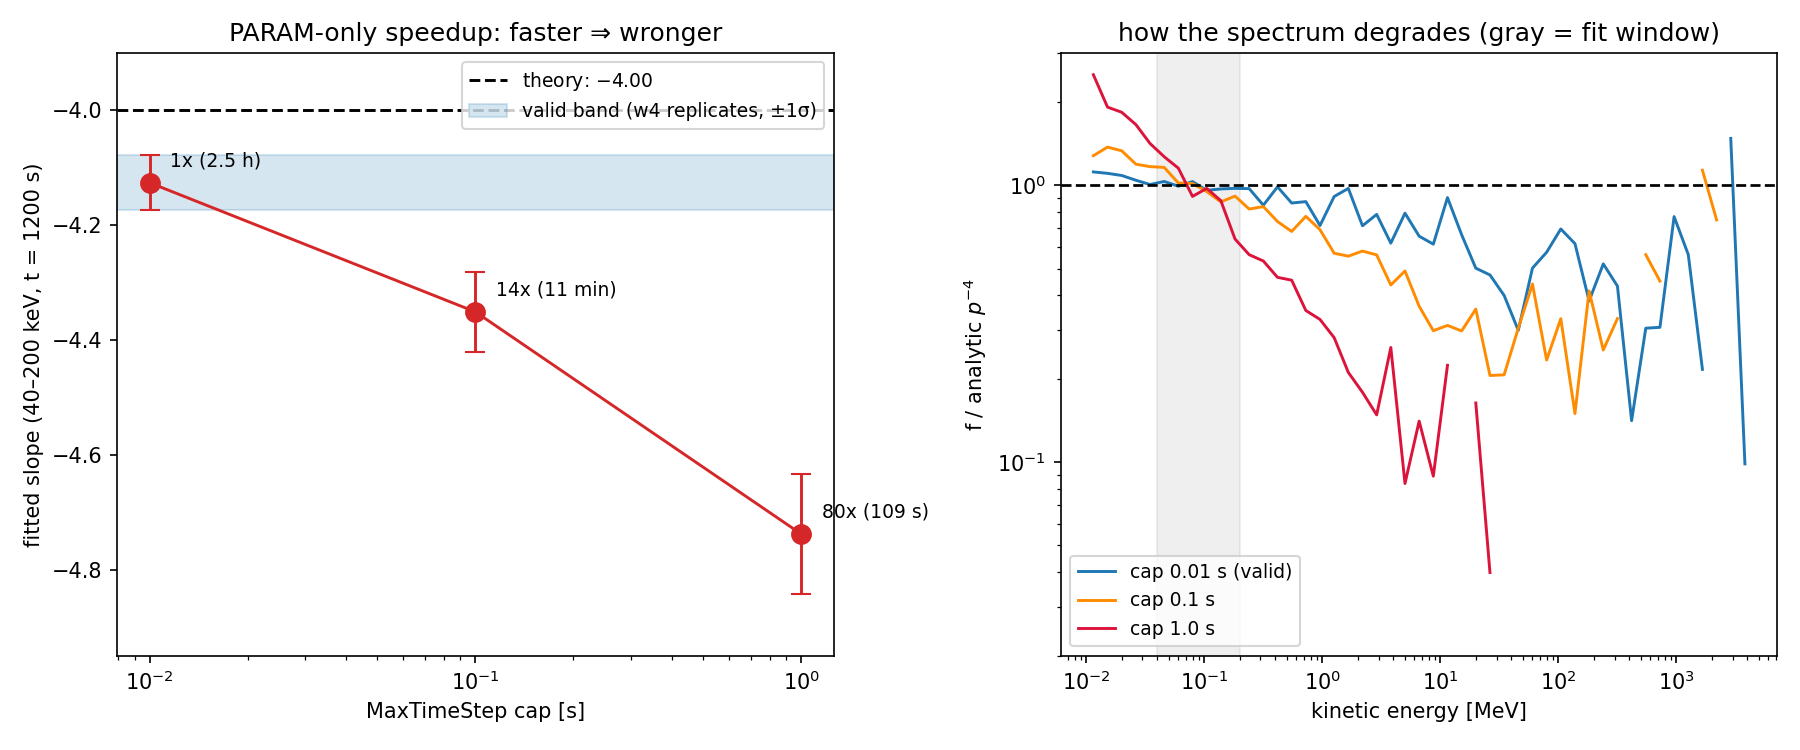
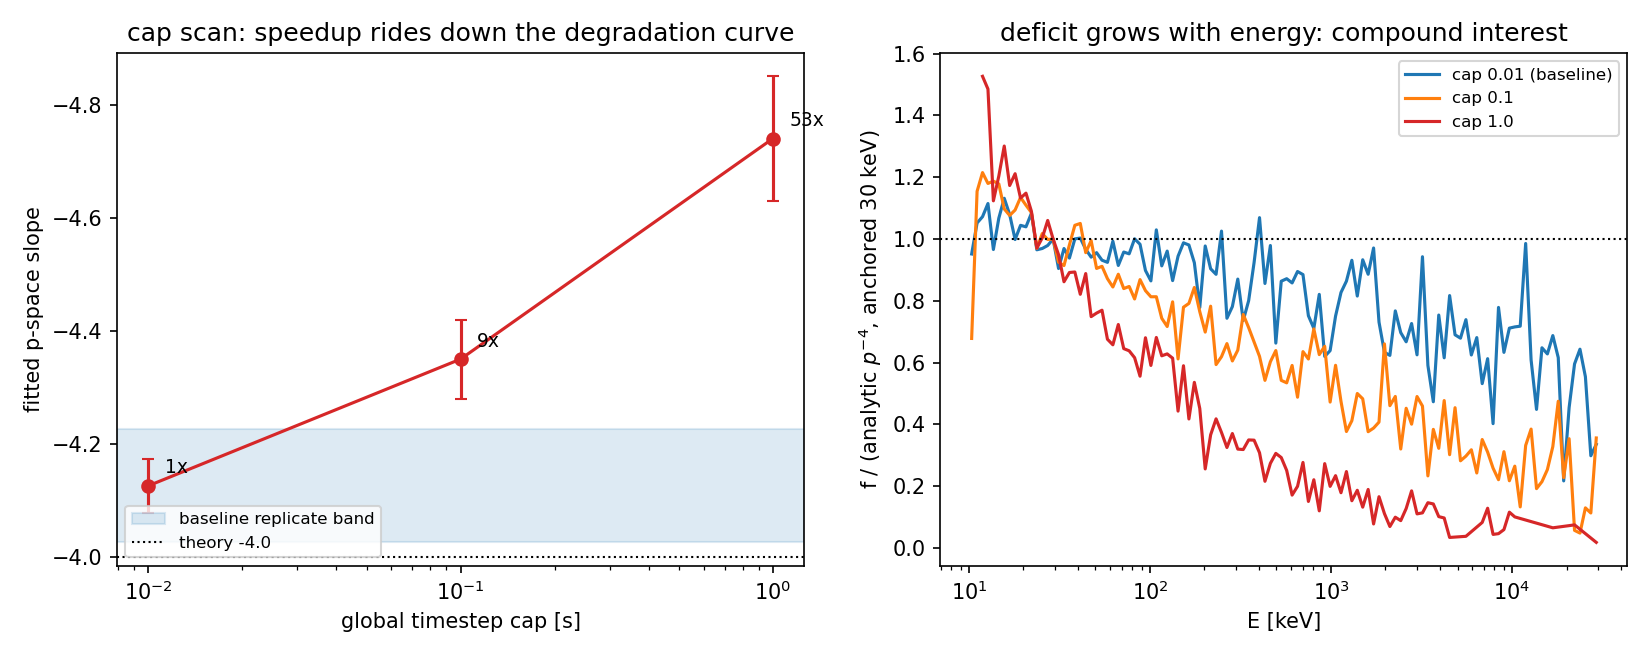
Correct cap-scan timings in timestep note (baseline 1.6 h, 9x/53x)
The baseline advance time was overstated at 2.5 h; runlog sums give
5833 s, so the cap-scan speedups are 9x and 53x, not 14x and 80x.
Figure regenerated with corrected annotations.

Claude-Session: https://claude.ai/code/session_01Uh9QmchVi6VEDByCMMSrQd

diff --git a/src/pages/notes/sde-timestep.md b/src/pages/notes/sde-timestep.md
@@ -193,11 +193,15 @@ The cheapest option was tested directly: the resolved-shock benchmark run
 with the global cap raised, nothing else changed. Three caps, same physics,
 same analysis:
 
-| cap [s] | wall time | speedup | slope (40–200 keV) | amplitude vs baseline |
+| cap [s] | advance time | speedup | slope (40–200 keV) | amplitude vs baseline |
 |---|---|---|---|---|
-| 0.01 (baseline, 4 seeds) | ≈ 2.5 h | 1× | $-4.13 \pm 0.05$ | 1 |
-| 0.1 | 11 min | ≈ 14× | $-4.35 \pm 0.07$ | 0.88 |
-| 1.0 | 109 s | ≈ 80× | $-4.74 \pm 0.11$ | 0.90 |
+| 0.01 (baseline, 4 seeds) | 5833 s ≈ 1.6 h | 1× | $-4.13 \pm 0.05$ | 1 |
+| 0.1 | 646 s ≈ 11 min | ≈ 9× | $-4.35 \pm 0.07$ | 0.88 |
+| 1.0 | 109 s | ≈ 53× | $-4.74 \pm 0.11$ | 0.90 |
+
+(Times are the summed per-iteration advance-loop cost from the runlogs,
+which excludes I/O; an earlier draft overstated the baseline at 2.5 h and
+hence the speedups at 14×/80×.)
 
 The speedup is as large as promised — and the spectrum degrades
 monotonically with the cap, already ~3σ outside the replicate band at 0.1 s.
@@ -213,13 +217,13 @@ Conclusion, measured rather than argued: **configuration alone cannot buy
 the large speedup — the graduated distance rule
 $\Delta t \le \alpha\,d^2/2\kappa_{\rm eff}$ is required**, so that the
 step length ramps down smoothly on approach and no particle ever jumps a
-significant fraction of its distance to the front. The ~80× ceiling
+significant fraction of its distance to the front. The ~50× ceiling
 measured here is what that rule stands to reclaim, legitimately.
 
 ![Cap-scan summary: fitted slope and spectra versus the global timestep cap](/notes/sde-timestep/figures/param_cap_scan.png)
 
 *The cap scan of the table above. Left: fitted slope versus the cap, with
-the baseline replicate band — the speedup annotations (1×, 14×, 80×) ride
+the baseline replicate band — the speedup annotations (1×, 9×, 53×) ride
 down the degradation curve. Right: spectra divided by the analytic $p^{-4}$
 reference; the deficit grows with energy, the compound-interest signature.*
 
